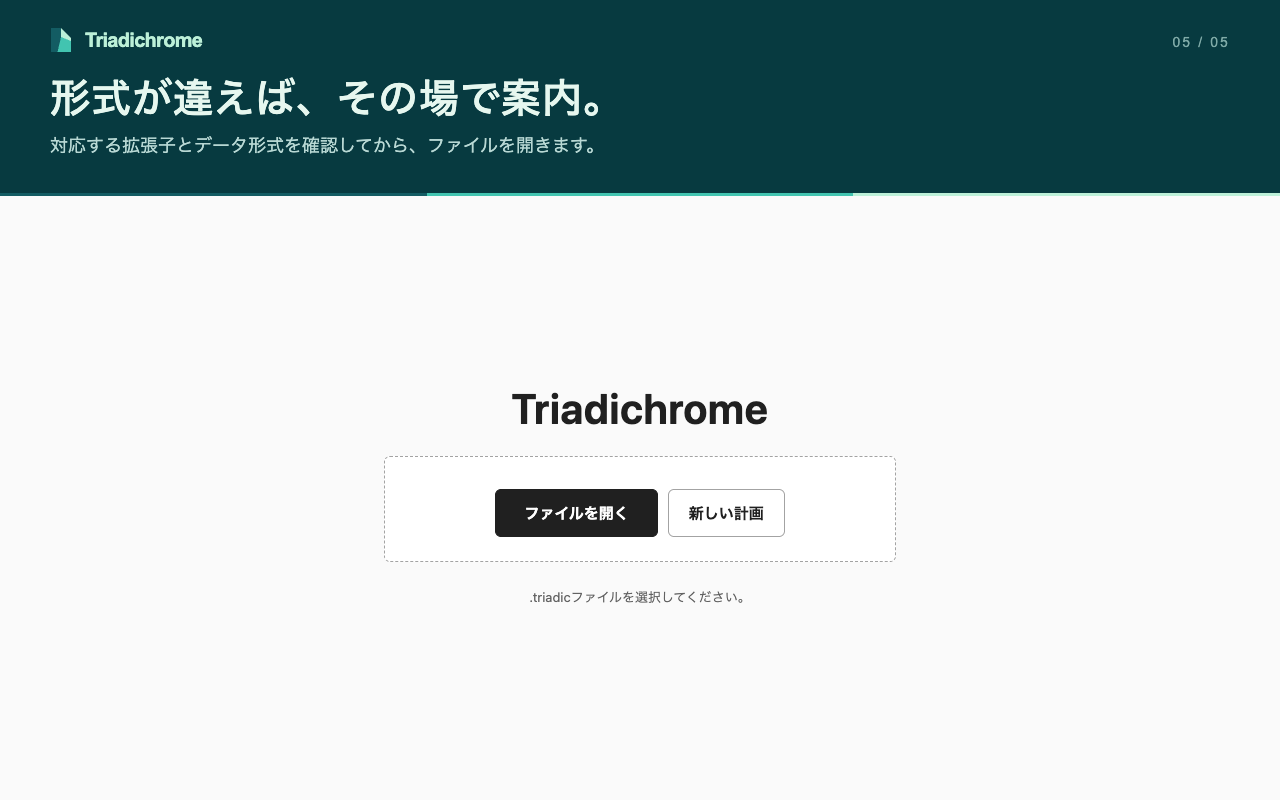
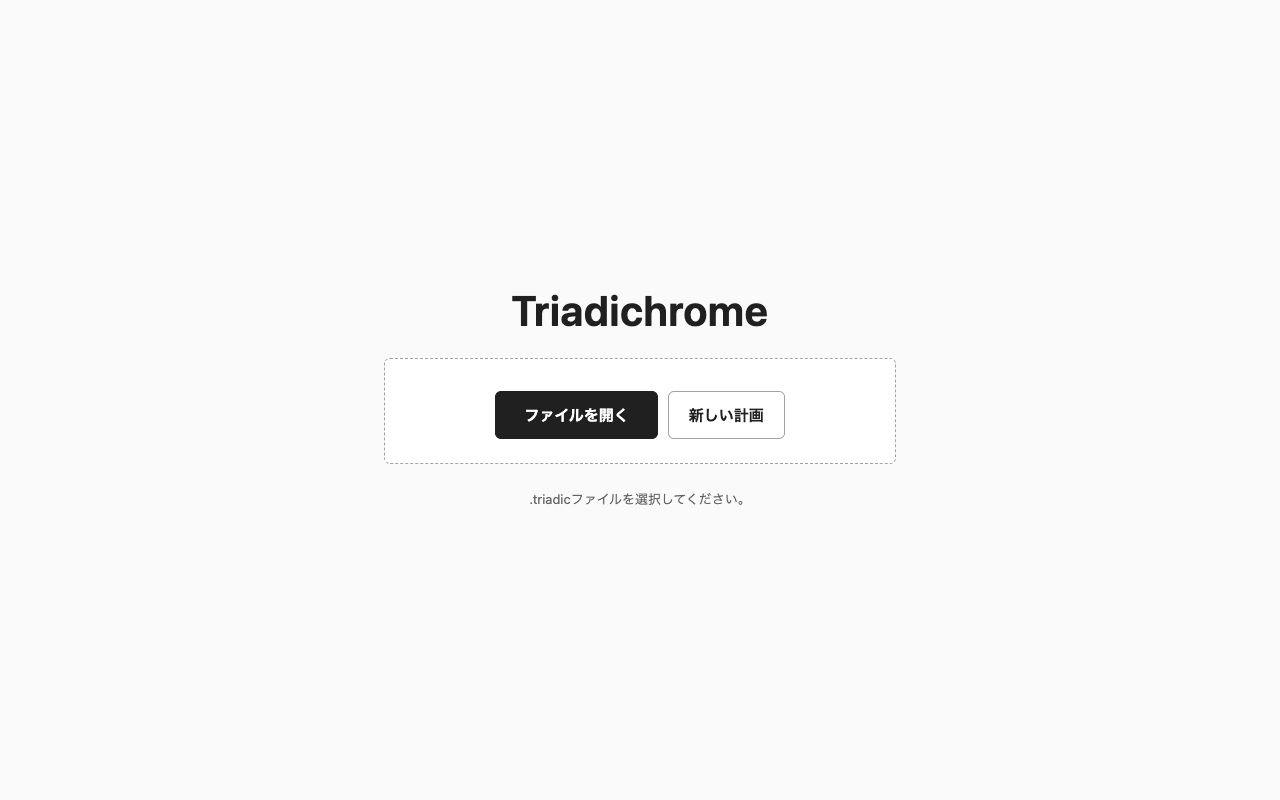
fix: 1.1.2 掲載画像をモノクロに統一して説明文を削除
scope:
- branding
- assets

目的:
- 掲載画像をアプリのモノクロミニマルなデザインに揃える

内容:
- 幾何学ロゴと各サイズのアイコンを無彩色へ変更
- 販促画像の背景装飾を削除してロゴと製品名だけに整理
- 宣伝文句と説明帯を削除し、実画面を掲載寸法で撮影
- 再生成処理と資料を更新し、旧配色の原案指示を削除
- パッケージとManifestの版番号を更新

確認:
- 型チェックを含む本番ビルドが成功
- 全PNGに有彩色の画素がないことを確認
- 掲載スクリーンショットと撮影元の画素一致を確認
- 画像寸法と同梱アイコンの一致、目視、差分検査が成功

影響:
- 掲載画像とアイコンの外観を修正
- 保存形式とアプリの操作は変更しない

diff --git a/store-assets/source/layouts.html b/store-assets/source/layouts.html
@@ -1,20 +1,51 @@
 <!doctype html>
 <html lang="ja">
 <head>
-<meta charset="utf-8">
-<meta name="viewport" content="width=device-width, initial-scale=1">
-<title>Triadichrome — 掲載画像</title>
-<style>
-:root{font-family:-apple-system,BlinkMacSystemFont,"Hiragino Sans","Yu Gothic",sans-serif;color:#e6f7ef;background:#deded8;font-synthesis:none}*{box-sizing:border-box}body{margin:0}section{position:relative;overflow:hidden;margin:0}.brand{font-family:Arial,Helvetica,sans-serif;letter-spacing:-.035em;font-weight:600}.promo{background:#073a40}.small{width:440px;height:280px;display:flex;flex-direction:column;align-items:center;justify-content:center;gap:5px}.small img{width:156px;height:156px}.small .brand{font-size:34px;line-height:1.2}.small:before{content:"";position:absolute;width:210px;height:310px;left:-175px;top:14px;transform:rotate(26deg);background:#0d5157}.small:after{content:"";position:absolute;width:180px;height:310px;right:-154px;top:-28px;transform:rotate(26deg);background:#0d5157}.marquee{width:1400px;height:560px;display:flex;align-items:center;padding:0 126px;gap:44px}.marquee img{width:330px;height:330px;z-index:1}.marquee .brand{font-size:88px;line-height:1;z-index:1}.marquee:before{content:"";position:absolute;inset:0;background:#0d5157;clip-path:polygon(0 0,290px 0,160px 100%,0 100%)}.marquee:after{content:"";position:absolute;inset:0;background:#10545a;clip-path:polygon(1330px 0,1400px 0,1400px 560px,1200px 560px)}.shot{width:1280px;height:800px;background:#fafafa}.shot header{height:196px;background:#073a40;padding:26px 50px 28px;position:relative}.shot .brandline{height:28px;display:flex;align-items:center;gap:8px;color:#bcf0d8;font-size:20px}.brandline img{height:32px;width:32px;margin-left:-5px}.shot h1{margin:18px 0 8px;font-size:40px;font-weight:600;letter-spacing:.025em;line-height:1.3}.shot p{margin:0;color:#b8d8d4;font-size:18px;line-height:1.5}.shot .count{position:absolute;right:50px;top:34px;color:#7faaa7;font:14px Arial,sans-serif;letter-spacing:.15em}.capture{display:block;width:1280px;height:604px}.shot header:after{content:"";position:absolute;bottom:0;left:0;width:100%;height:3px;background:linear-gradient(90deg,#135c63 0 33.333%,#42c4b0 33.333% 66.666%,#bcf0d8 66.666%)}
-</style>
+  <meta charset="utf-8">
+  <meta name="viewport" content="width=device-width, initial-scale=1">
+  <title>Triadichrome</title>
+  <style>
+    :root {
+      font-family: -apple-system, BlinkMacSystemFont, "Segoe UI", "Hiragino Sans", sans-serif;
+      color: #202020;
+      background: #fafafa;
+      font-synthesis: none;
+    }
+    * { box-sizing: border-box; }
+    body { margin: 0; }
+    section { overflow: hidden; margin: 0; background: #fafafa; }
+    .brand { font-weight: 600; letter-spacing: -.035em; line-height: 1.2; }
+    .small {
+      width: 440px;
+      height: 280px;
+      display: flex;
+      flex-direction: column;
+      align-items: center;
+      justify-content: center;
+      gap: 5px;
+    }
+    .small img { width: 156px; height: 156px; }
+    .small .brand { font-size: 34px; }
+    .marquee {
+      width: 1400px;
+      height: 560px;
+      display: flex;
+      align-items: center;
+      justify-content: center;
+      gap: 44px;
+    }
+    .marquee img { width: 330px; height: 330px; }
+    .marquee .brand { font-size: 88px; }
+  </style>
 </head>
 <body>
-<section id="promo-small" class="promo small"><img src="../../branding/logo.svg" alt=""><div class="brand">Triadichrome</div></section>
-<section id="promo-marquee" class="promo marquee"><img src="../../branding/logo.svg" alt=""><div class="brand">Triadichrome</div></section>
-<section id="screenshot-01" class="shot"><header><div class="brandline"><img src="../../branding/logo.svg" alt=""><span class="brand">Triadichrome</span></div><span class="count">01 / 05</span><h1>計画ファイルを、ここから。</h1><p>.triadicファイルを開く・作る。操作の入口をひとつに。</p></header><img class="capture" src="screenshots/01-entry.png" alt="入口画面の実際のスクリーンショット"></section>
-<section id="screenshot-02" class="shot"><header><div class="brandline"><img src="../../branding/logo.svg" alt=""><span class="brand">Triadichrome</span></div><span class="count">02 / 05</span><h1>新しい計画を、ファイルに。</h1><p>「新しい計画」から、保存先を選んで.triadicファイルを作成。</p></header><img class="capture" src="screenshots/02-create.png" alt="新しい計画ボタンを選択した入口画面"></section>
-<section id="screenshot-03" class="shot"><header><div class="brandline"><img src="../../branding/logo.svg" alt=""><span class="brand">Triadichrome</span></div><span class="count">03 / 05</span><h1>ドラッグして、開く。</h1><p>手元の.triadicファイルを、入口画面へドロップ。</p></header><img class="capture" src="screenshots/03-drop.png" alt="実際のファイルドラッグ受付状態"></section>
-<section id="screenshot-04" class="shot"><header><div class="brandline"><img src="../../branding/logo.svg" alt=""><span class="brand">Triadichrome</span></div><span class="count">04 / 05</span><h1>開いているファイルを、確認。</h1><p>メニューにファイル名を表示。「ファイルを閉じる」で入口へ戻れます。</p></header><img class="capture" src="screenshots/04-menu.png" alt="ファイルを読み込んだホーム画面のメニュー"></section>
-<section id="screenshot-05" class="shot"><header><div class="brandline"><img src="../../branding/logo.svg" alt=""><span class="brand">Triadichrome</span></div><span class="count">05 / 05</span><h1>形式が違えば、その場で案内。</h1><p>対応する拡張子とデータ形式を確認してから、ファイルを開きます。</p></header><img class="capture" src="screenshots/05-validation.png" alt="対応外の拡張子を選択した場合の実際の案内"></section>
+  <section id="promo-small" class="small">
+    <img src="../../branding/logo.svg" alt="">
+    <div class="brand">Triadichrome</div>
+  </section>
+  <section id="promo-marquee" class="marquee">
+    <img src="../../branding/logo.svg" alt="">
+    <div class="brand">Triadichrome</div>
+  </section>
 </body>
 </html>

diff --git a/store-assets/README.md b/store-assets/README.md
@@ -13,21 +13,21 @@
 | スクリーンショット4 | [ファイルメニュー](screenshots/04-menu-1280x800.png) | 1280×800 | 同上 |
 | スクリーンショット5 | [形式の案内](screenshots/05-validation-1280x800.png) | 1280×800 | 同上 |
 
-スクリーンショットは番号順に登録します。説明文は日本語です。言語別登録のできない販促画像は、ロゴと製品名のみで構成しています。アイコンは透過PNG、販促画像とスクリーンショットは透過のないRGB PNGです。古い資料に見られる920×680の販促枠は、現在の公式要件には含まれません。
+スクリーンショットは番号順に登録します。画像に宣伝文句や説明帯は付けていません。販促画像はロゴと製品名のみです。アイコンは透過PNG、販促画像とスクリーンショットは透過のないRGB PNGです。
 
 寸法・枚数は[Chrome公式の画像要件](https://developer.chrome.com/docs/webstore/images)、構成は[掲載画像の品質指針](https://developer.chrome.com/docs/webstore/best-listing)に基づきます。
 
 ## ロゴ
 
-[編集用SVG](../branding/logo.svg)は、一枚の書類を三つの多角形で表現しています。濃い青緑 `#135C63`、青緑 `#42C4B0`、薄い緑 `#BCF0D8` の三色を使います。製品の「同じ計画を三つの視点で扱う」という考え方をモチーフにしたもので、未実装の画面を示す図ではありません。
+[編集用SVG](../branding/logo.svg)は、書類を三つの多角形で表現しています。配色は黒 `#202020`、グレー `#858585`、薄いグレー `#D9D9D9` です。
 
 128px版の図形は横80×縦96pxで、上下16px・左右24pxの透明余白があります。追加の[512px](../branding/logo-512.png)・[1024px](../branding/logo-1024.png)透過PNGと、拡張機能用の16・32・48・128px PNGを`branding/`に収めています。
 
-原案の検討には組み込みの画像生成ツールを使い、製品で用いる正本は三つの単色多角形からなるSVGとして作成しています。[生成時の指示](../branding/generation-prompts.json)を参照できます。
+販促画像も無彩色とし、背景の装飾は付けていません。ロゴのSVGと販促画像のHTMLを編集用の正本とします。
 
 ## 画面の出典と範囲
 
-`source/screenshots/`は、このリポジトリのReact画面をローカルで動かして撮影した未加工の画像です。各画像は幅1280×高さ604pxで、掲載用には上部へ196pxの説明帯を付けています。アプリの表示領域に描き足し・引き伸ばし・角丸処理はしていません。
+`source/screenshots/`は、このリポジトリのReact画面をローカルで動かして1280×800pxで撮影した画像です。掲載用は同じ画素を使い、PNGの形式だけRGBに揃えています。描き足し・引き伸ばし・角丸処理はしていません。
 
 撮影対象は入口、キーボードで新規作成ボタンを選択した状態、ファイルのドラッグ受付中、有効なファイルを読み込んだ後のメニュー、対応外の拡張子を選択した際の案内です。OSの保存ダイアログは収録していません。撮影用ファイルはアプリの作成処理から生成した空の計画であり、個人情報や業務データを含みません。
 
@@ -56,7 +56,7 @@ export TRIADICHROME_ART_CHROME='/Applications/Google Chrome.app/Contents/MacOS/G
 node scripts/capture-store-screenshots.mjs
 ```
 
-ロゴ・説明文・販促画像のレイアウトは`branding/logo.svg`と`store-assets/source/layouts.html`を編集し、次のコマンドでPNGと確認用一覧を再生成します。再生成時は既存の制作画像を上書きします。
+ロゴ・販促画像のレイアウトは`branding/logo.svg`と`store-assets/source/layouts.html`を編集し、次のコマンドでPNGと確認用一覧を再生成します。再生成時は既存の制作画像を上書きします。
 
 ```sh
 node scripts/render-store-assets.mjs

diff --git a/README.md b/README.md
@@ -35,7 +35,7 @@ TypeScript、React、Vite、sql.js、Chrome Extension Manifest V3を使用しま
 ## ストア掲載画像
 
 Chrome Web Store用のアイコン・販促画像2種類・スクリーンショット5枚を`store-assets/`に用意しています。掲載先との対応と再生成手順は[掲載画像ガイド](store-assets/README.md)、画像の一覧は[プレビュー](store-assets/preview.png)を参照してください。
-ロゴの正本は`branding/logo.svg`です。三つの多角形で書類のモチーフを表現し、拡張機能用のPNGを`branding/icons/`からビルド時に同期します。
+ロゴの正本は`branding/logo.svg`です。アプリと同じモノクロミニマルな配色で、三つの多角形によって書類のモチーフを表現しています。拡張機能用のPNGを`branding/icons/`からビルド時に同期します。
 
 ## 構成
 
